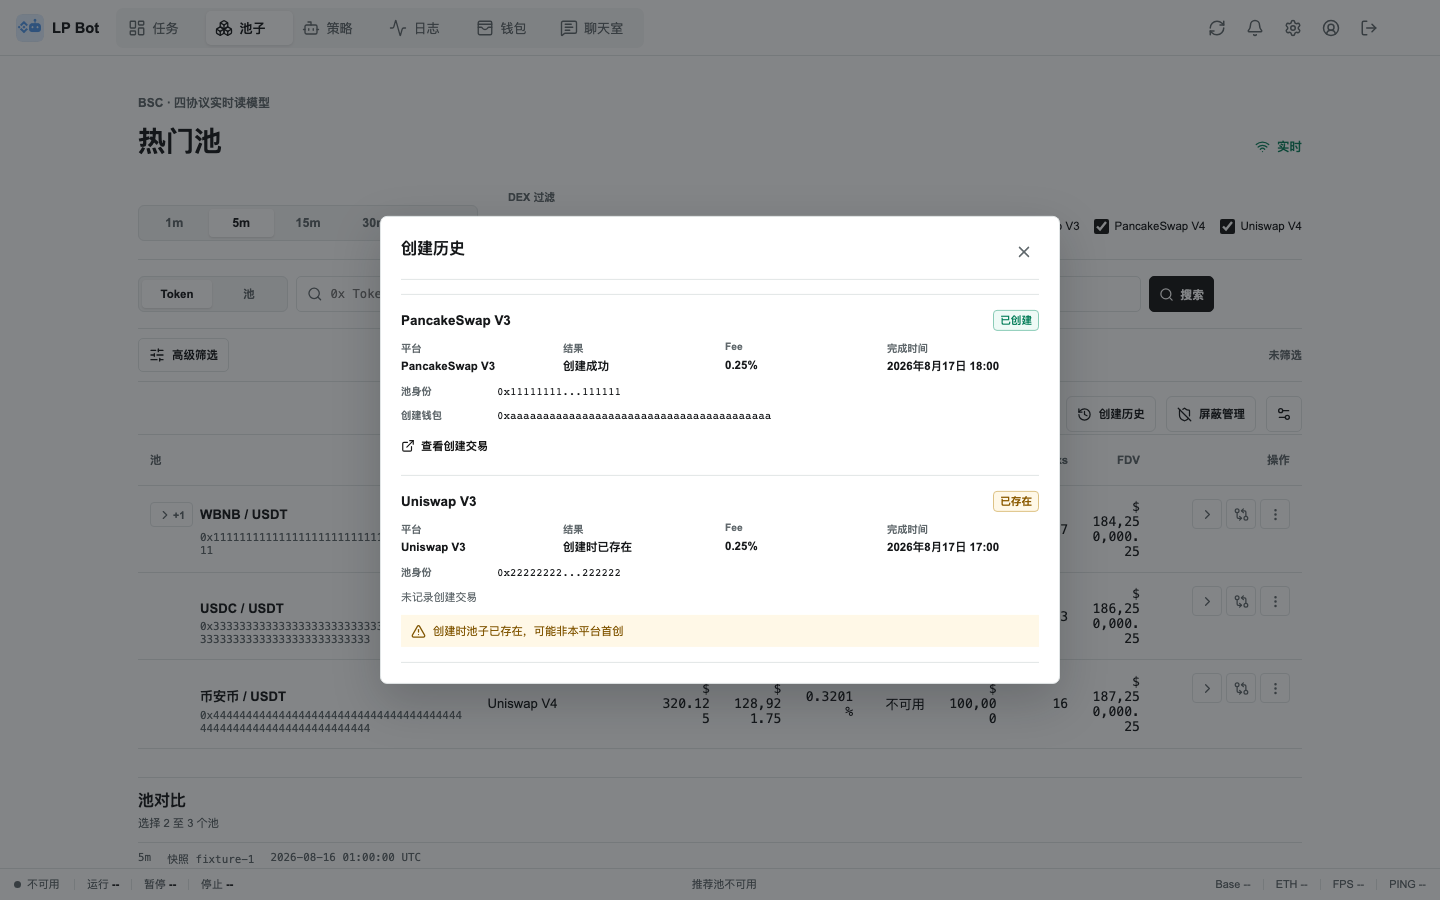
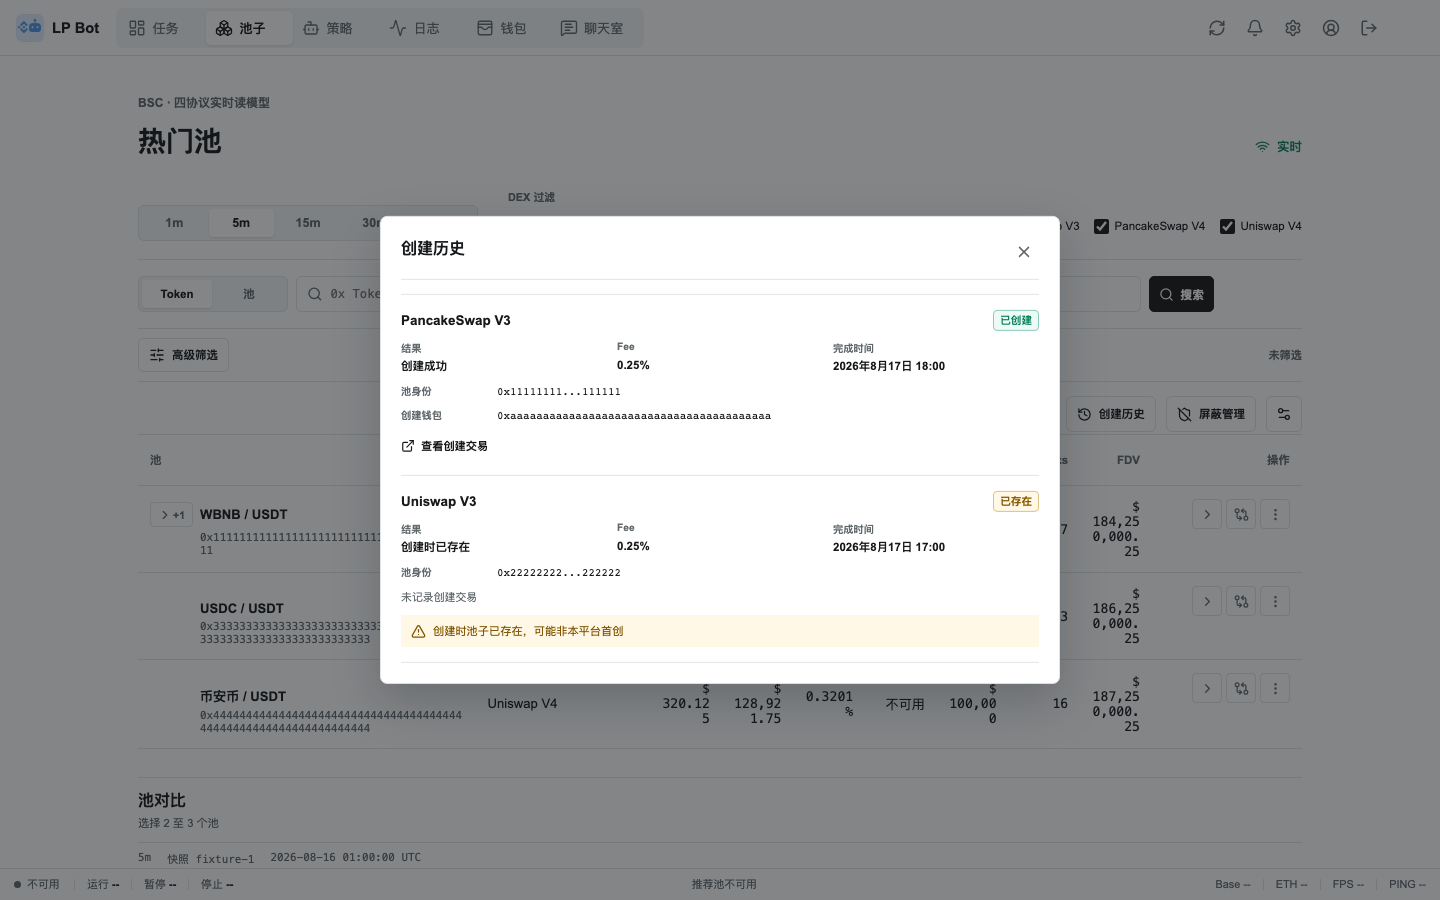
chore: auto-sync 2026-08-17 14:13:48 +0800

diff --git a/tests/e2e/p02-12-pool-provenance.spec.ts b/tests/e2e/p02-12-pool-provenance.spec.ts
@@ -431,7 +431,7 @@ test("POOL-15 renders null, partial, deleted-user, malformed and batch-error adm
   await dialog.getByRole("button", { name: "关闭池子创建者" }).click();
 
   await page.getByRole("button", { name: "展开高级筛选" }).click();
-  await page.getByRole("checkbox", { name: "V4" }).uncheck();
+  await page.getByRole("checkbox", { exact: true, name: "V4" }).uncheck();
   await page.getByRole("button", { name: "应用筛选" }).click();
   await expect.poll(() => calls).toBe(3);
   await page.getByRole("button", { name: `查看池子创建者 0x${"1".repeat(40)}` }).click();
@@ -473,10 +473,10 @@ test("POOL-15 cancels filtered admin batches and ignores their late response", a
   await page.goto("/pools?fixture=pools-ready");
   await expect.poll(() => calls).toBe(1);
   await page.getByRole("button", { name: "展开高级筛选" }).click();
-  await page.getByRole("checkbox", { name: "V4" }).uncheck();
+  await page.getByRole("checkbox", { exact: true, name: "V4" }).uncheck();
   await page.getByRole("button", { name: "应用筛选" }).click();
   await expect.poll(() => calls).toBe(2);
-  await expect(page.getByRole("button", { name: /查看池子创建者/u })).toHaveCount(2);
+  await expect(page.getByRole("button", { name: /查看池子创建者/u })).toHaveCount(1);
   await firstRoute
     ?.fulfill({
       contentType: "application/json",

diff --git a/apps/web/src/pool-provenance-ui.tsx b/apps/web/src/pool-provenance-ui.tsx
@@ -64,15 +64,23 @@ function OutcomeWarning({ record }: { record: PoolCreationProvenanceRecord }) {
   );
 }
 
-function ProvenanceRecordDetails({ record }: { record: PoolCreationProvenanceRecord }) {
+function ProvenanceRecordDetails({
+  record,
+  showPlatform = true,
+}: {
+  record: PoolCreationProvenanceRecord;
+  showPlatform?: boolean;
+}) {
   const identity = identityFromPoolKey(record.poolKey);
   return (
     <>
       <dl className="pool-provenance-facts">
-        <div>
-          <dt>平台</dt>
-          <dd>{protocolLabel(record.protocol)}</dd>
-        </div>
+        {showPlatform ? (
+          <div>
+            <dt>平台</dt>
+            <dd>{protocolLabel(record.protocol)}</dd>
+          </div>
+        ) : null}
         <div>
           <dt>结果</dt>
           <dd>{record.outcome === "created" ? "创建成功" : "创建时已存在"}</dd>
@@ -127,7 +135,7 @@ function HistoryRecord({ attribution }: { attribution: PoolCreationAttribution }
           {record.outcome === "created" ? "已创建" : "已存在"}
         </span>
       </div>
-      <ProvenanceRecordDetails record={record} />
+      <ProvenanceRecordDetails record={record} showPlatform={false} />
     </li>
   );
 }

diff --git a/apps/web/src/styles.css b/apps/web/src/styles.css
@@ -2722,7 +2722,7 @@ html[data-theme="dark"] .flow-stat-strip[data-completeness="partial"] [data-metr
 .pool-provenance-facts {
   display: grid;
   min-width: 0;
-  grid-template-columns: repeat(4, minmax(0, 1fr));
+  grid-template-columns: repeat(auto-fit, minmax(110px, 1fr));
   gap: 10px;
   margin: 0;
 }
